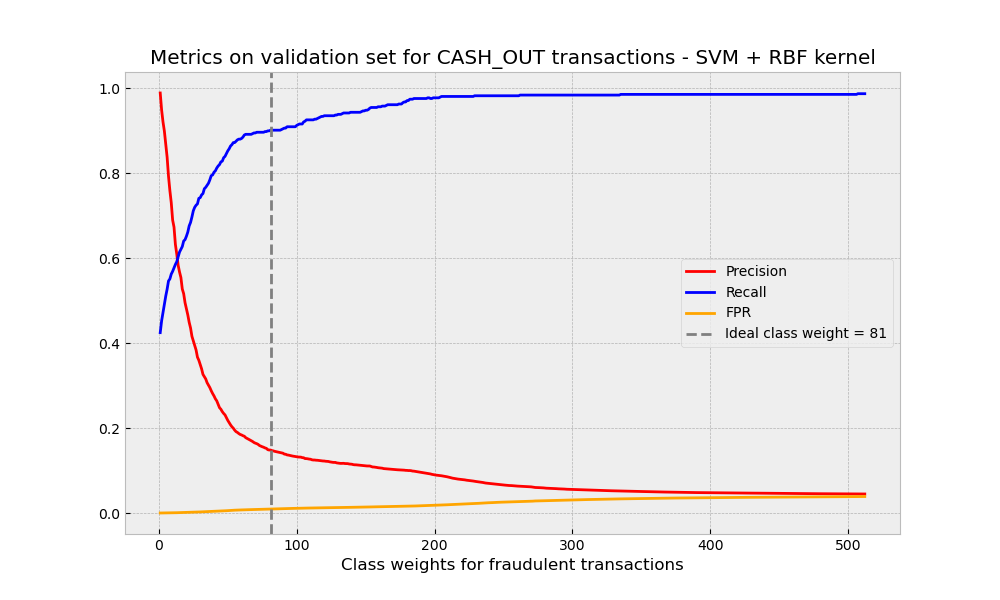
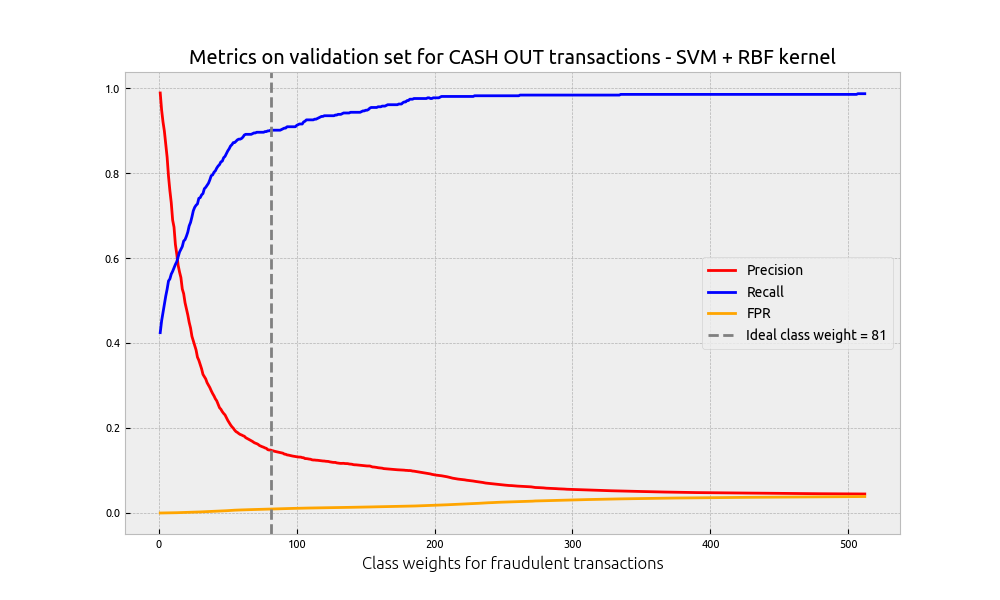
update: eval ideal class weight plots with formatted title and confplot

diff --git a/experimentation/reproduce_oza_2018/src/evaluate_ideal_class_weight.py b/experimentation/reproduce_oza_2018/src/evaluate_ideal_class_weight.py
@@ -112,7 +112,8 @@ def main(_):
             "decision_tree": "Decision Tree",
         }
         ax.set_title(
-            f"Metrics on validation set for {FLAG.transaction_type} transactions "
+            "Metrics on validation set for "
+            f"{' '.join(str(FLAG.transaction_type).split('_'))} transactions "
             f"- {title_name_map[model_name]}",
             # fontweight="bold",
         )
